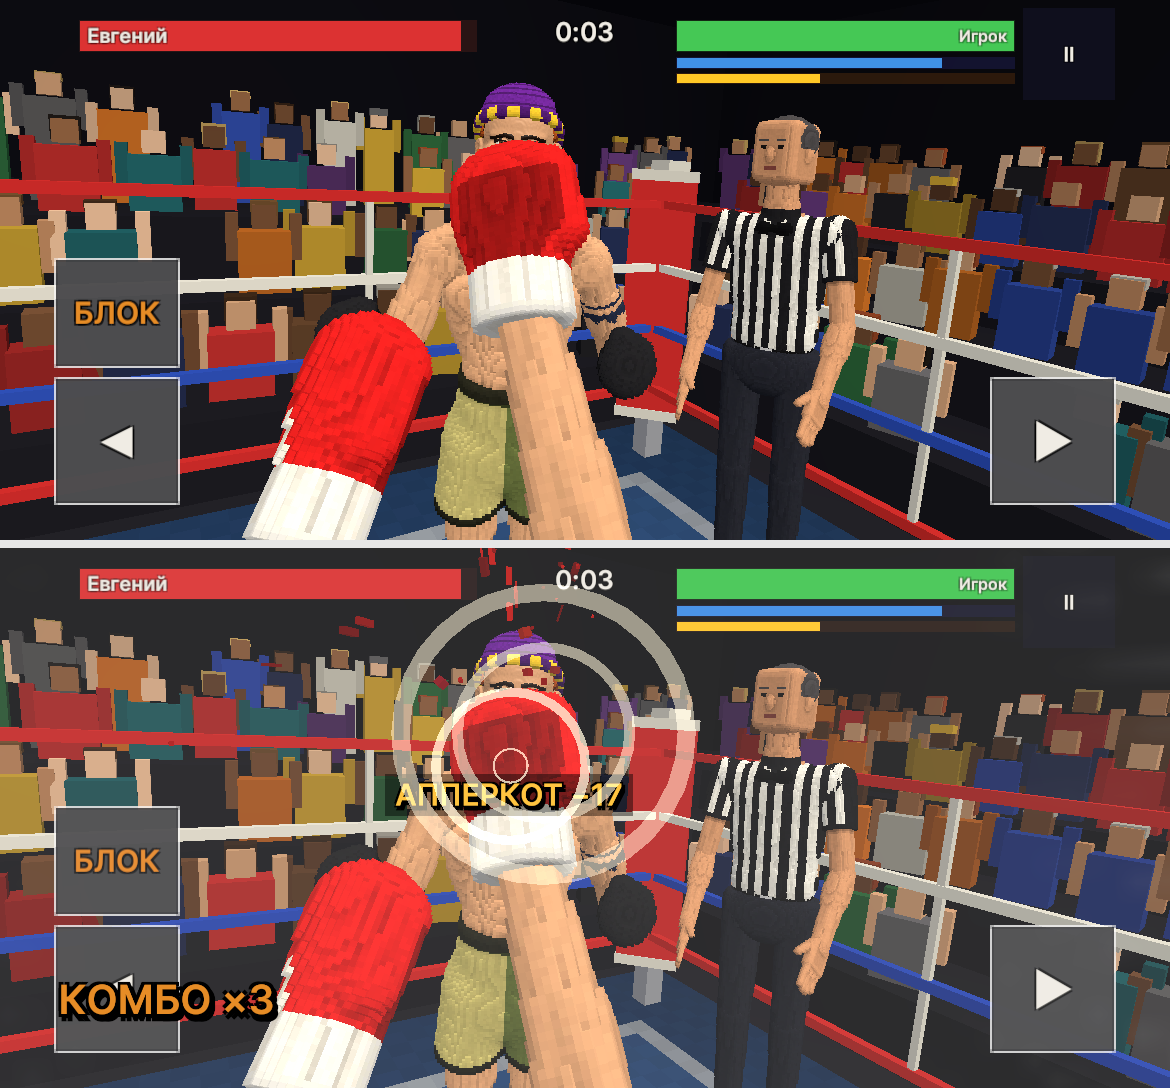
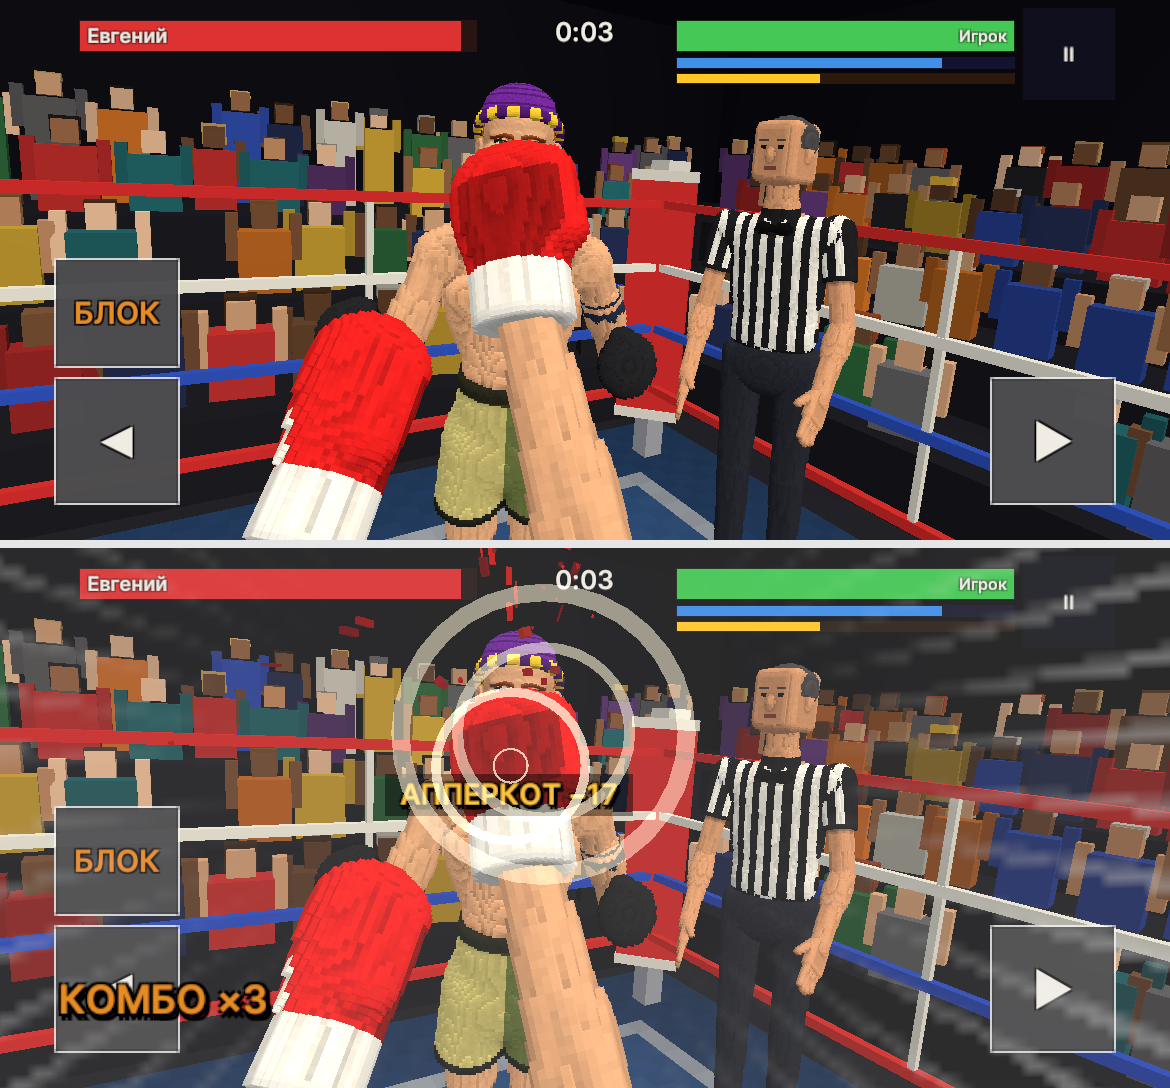
STATUS: лица соперников (50e2349) и эффекты удара (cdb7402) влиты, цифры тестов, что не сделано; пересъёмка hit-fx и кадров боя faces после слияния

diff --git a/docs/STATUS.md b/docs/STATUS.md
@@ -32,6 +32,8 @@
 | B, часть 8: остатки вида (отёк, кровь, мышцы культи, упрощённый шейдер) | см. `git log` | `Unity/ANATOMY-B.md` |
 | B, часть 9: переломы §5 (ветка `claude/fractures-b9-662cc1`, влита) | e68959b, 9ced290 + документы | `Unity/ANATOMY-B.md` |
 | B, часть 10: кровь ветвями, слои мышц на культе, огрехи переломов (та же ветка) | bdb741c (слияние) | `Unity/ANATOMY-B.md` |
+| Игра: разные лица соперников (тон кожи, причёски) | 50e2349 (слияние) | `Unity/FACES.md` |
+| Игра: эффекты удара (волны, брызги, надписи) | cdb7402 (слияние) | `Unity/HIT-FX.md` |
 
 Приёмка частей 1–2 (24.11): **принять с замечаниями**. Тесты анатомии 41 прошли / 0 упали / 0 пропущено. Стадии разрушения до культи проходят, лист — `Unity/Shots/anatomy-b/sheet.png`. Замечания по виду (синяк, отёк, кровь, трещины, извилины, культя) закрыты частью 5; §5 (переломы) и часть §6 не сделаны — см. приёмку.
 
@@ -65,6 +67,13 @@
 - Ветка `claude/fractures-b9-662cc1` (`abded33`): кровь ветвями (ручьи от основных подтёков), слои мышц на срезе культи, огрехи переломов Ле Фор II/III. Выключатели для пар «без | с»: `AnatBones.Wide`, `AnatDamage.Rivulets`, `_AnatB10Off` (ключ `-anatB10Off`). Отчёт — `Unity/ANATOMY-B.md`, снимки — `Unity/Shots/anatomy-b10/`.
 - Тесты на коммите слияния (пакетно, во временной копии репозитория): `VoxProbe.Tests.Anatomy` 61 / 0 / 0 (с графикой; под `-nographics` два рендер-теста, `BloodRivuletsRender` и `StumpMuscleLayersRender`, падают — нет `RenderTexture`), `VoxGame.Tests` 222 / 0 / 0; seed 77 прежний — 78 ударов, 147 880 / 149 586 / 157 850 / 156 238 / 51 928, куски 75 212.
 - Не сделано: нос при Ле Фор III со сломанным носом (перехлёст 1,00→1,33); ручьи идут по вертикали, а не по уклону кожи; слои мышц культи издали не видны; на телефоне не мерено.
+
+### Unity: лица соперников и эффекты удара (влиты в `main` 26.11.2026)
+
+- Лица: ветка `claude/foe-faces-699884` (`1df6888`), слияние `50e2349`. Пять тонов кожи, воксельные причёски, бороды и шапки по бойцу лестницы; волосы без опоры уходят вместе с кожей после удара (`AnatLooks.Settle`, выключатель `AnatView.HairFall`). Конфликт с частью 10 в `AnatView.cs` разрешён: оставлены и внешность (`AnatPalette.Apply(look)`), и выключатель `_AnatB10Off`. Отчёт — `Unity/FACES.md`, снимки — `Unity/Shots/faces/`.
+- Эффекты удара: ветка `claude/hit-fx-76f3f9` (`7795ef5`), слияние `cdb7402` (без конфликтов, `FightDirector.cs` свёлся сам). Кольца-волны, брызги, всплывающий урон, надписи ударов, метки травм, вспышка экрана по образцу веб-версии. Отчёт — `Unity/HIT-FX.md`, снимки — `Unity/Shots/hit-fx/` (пересняты после слияния: соперник уже с лицом из ветки лиц).
+- Тесты (пакетно в worktree, после каждого слияния): после лиц `VoxGame.Tests` 223 / 0 / 0, `VoxProbe.Tests.Anatomy` 65 / 0 / 0; после эффектов `VoxGame.Tests` 227 / 0 / 0, `VoxProbe.Tests.Anatomy` 65 / 0 / 0. Seed 77 прежний оба раза — 78 ударов, 147 880 / 149 586 / 157 850 / 156 238 / 51 928, куски 75 212. Лист лиц после слияния побитно совпал с листом ветки.
+- Не сделано (лица): объём волос ограничен решёткой головы; нет капы и метки «кость наружу». Замечания приёмки (эффекты): кровь летит в верх экрана, у точки удара её мало; плашка удара бледная и перекрывается перчаткой.
 
 ### Веб-прототип
 
